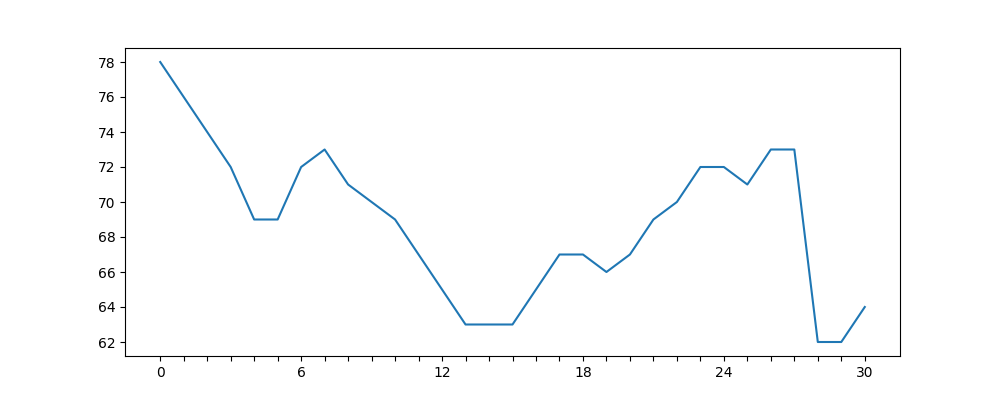
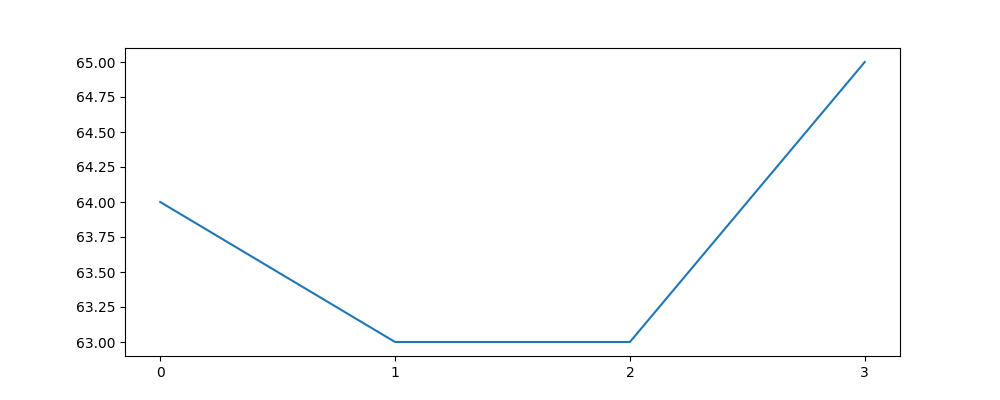
thread

diff --git a/interfaceSamsung/client_network.py b/interfaceSamsung/client_network.py
@@ -17,56 +17,60 @@ def clientNetwork(imageViewerSamsung):
     uuid="00001101-0000-1000-8000-00805F9B34FB" 
     finish = True
     end = 'END'
+
+    tabData = ["0","1","9","3","0"]
+    time.sleep(2)
     
-    while finish:
-        print ("Searching ...")
-        try:
-
-          service_matches
-        except NameError:
-          service_matches = bluetooth.find_service(uuid = uuid)
-        else:
-          if not service_matches:
-                print ("without address")
-                service_matches = bluetooth.find_service(uuid = uuid)
-          else:
-                print ("with address")
-                service_matches_with_addr = bluetooth.find_service(uuid = uuid, address = host)
-                if service_matches_with_addr:
-                  service_matches = service_matches_with_addr
-                else:
-                  continue
-
-        if service_matches:
-          first_match = service_matches[0]
-          port = first_match["port"]
-          name = first_match["name"]
-          host = first_match["host"]
-          print ("Connecting to ", name, " on ", host)
-          sock=bluetooth.BluetoothSocket(bluetooth.RFCOMM)
-          try:
-            sock.connect((host, port))
-          
-            data = sock.recv(9);
-            while True: 
-                data = sock.recv(8)
-                if data:
-                  dataStr += data.decode('latin1')
-                if dataStr.endswith(end):
-                  break
-                elif not data :
-                  break
-            finish = False
-          except:
-              e = sys.exc_info()[0]
-              print("error:", e)
-    print("data:", dataStr)
-    tabData = conversionChartoFloat(dataStr)
-    sock.close()
-    del service_matches
-    dataStr = ""
+##    while finish:
+##        print ("Searching ...")
+##        try:
+##
+##          service_matches
+##        except NameError:
+##          service_matches = bluetooth.find_service(uuid = uuid)
+##        else:
+##          if not service_matches:
+##                print ("without address")
+##                service_matches = bluetooth.find_service(uuid = uuid)
+##          else:
+##                print ("with address")
+##                service_matches_with_addr = bluetooth.find_service(uuid = uuid, address = host)
+##                if service_matches_with_addr:
+##                  service_matches = service_matches_with_addr
+##                else:
+##                  continue
+##
+##        if service_matches:
+##          first_match = service_matches[0]
+##          port = first_match["port"]
+##          name = first_match["name"]
+##          host = first_match["host"]
+##          print ("Connecting to ", name, " on ", host)
+##          sock=bluetooth.BluetoothSocket(bluetooth.RFCOMM)
+##          try:
+##            sock.connect((host, port))
+##          
+##            data = sock.recv(9);
+##            while True: 
+##                data = sock.recv(8)
+##                if data:
+##                  dataStr += data.decode('latin1')
+##                if dataStr.endswith(end):
+##                  break
+##                elif not data :
+##                  break
+##            finish = False
+##          except:
+##              e = sys.exc_info()[0]
+##              print("error:", e)
+##    print("data:", dataStr)
+##    tabData = conversionChartoFloat(dataStr)
+##    sock.close()
+##    del service_matches
+##    dataStr = ""
 
     imageViewerSamsung.data = tabData
+    imageViewerSamsung.actualizeGraphic()
 
 def conversionChartoFloat(data): 
     tabData = []

diff --git a/interfaceSamsung/imageViewer.py b/interfaceSamsung/imageViewer.py
@@ -45,11 +45,7 @@ class ImageViewer(QtWidgets.QMainWindow, interface.Ui_MainWindow):
         self.actionImport.triggered.connect(self.importData)
         self.emotionChoice.currentIndexChanged.connect(self.emotionChoiceIndex)
 
-        my_queue = Queue()
-        thread2 = threading.Thread(target = self.actualizeGraphic, args = (self.data,))
-        thread2.start()
-
-    def actualizeGraphic(self, data):
+    def actualizeGraphic(self):
         """
             To show the graphic with data 
             :param self: the object

diff --git a/interfaceSamsung/catalogFunction.py b/interfaceSamsung/catalogFunction.py
@@ -88,5 +88,6 @@ class CatalogFunction():
         date2 = str(date.tm_mday)+"-"+str(date.tm_mon)+"-"+str(date.tm_year)
         nomFichier = date2+"_Heart"+".png"
         pl.savefig(nomFichier)
+        pl.close()
 
         return nomFichier
